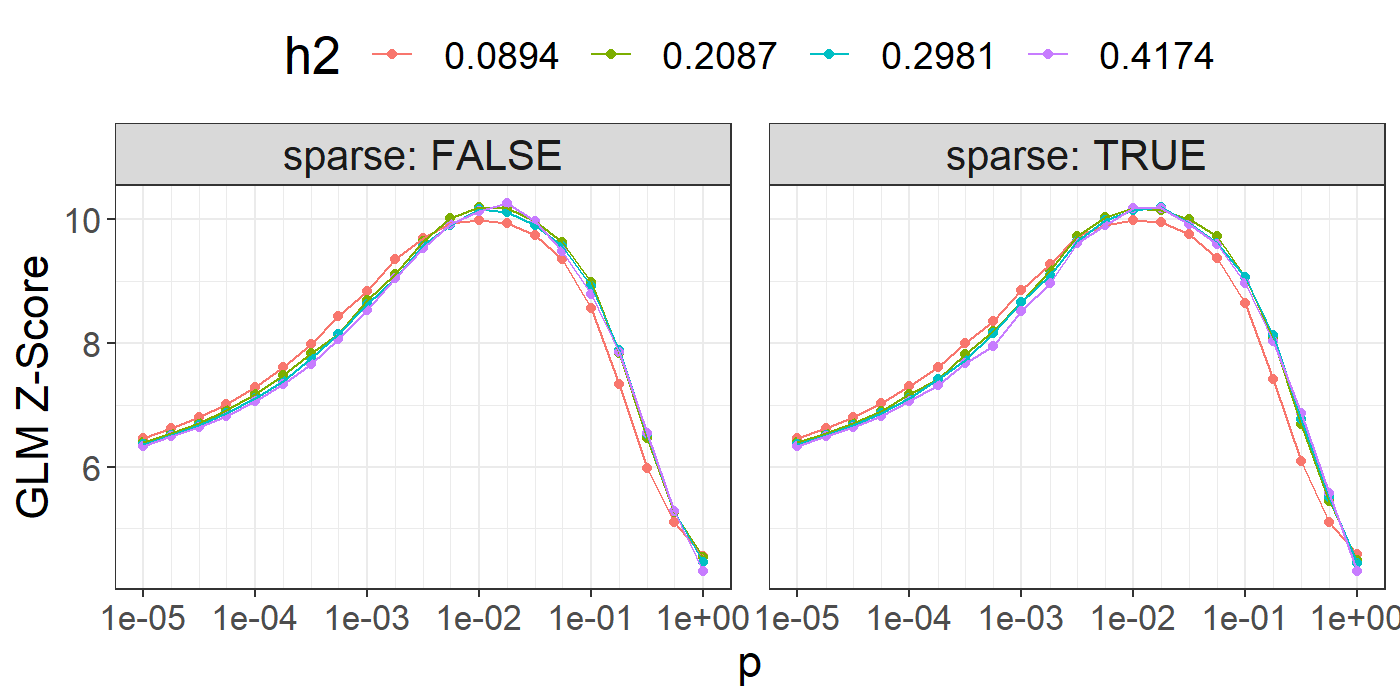
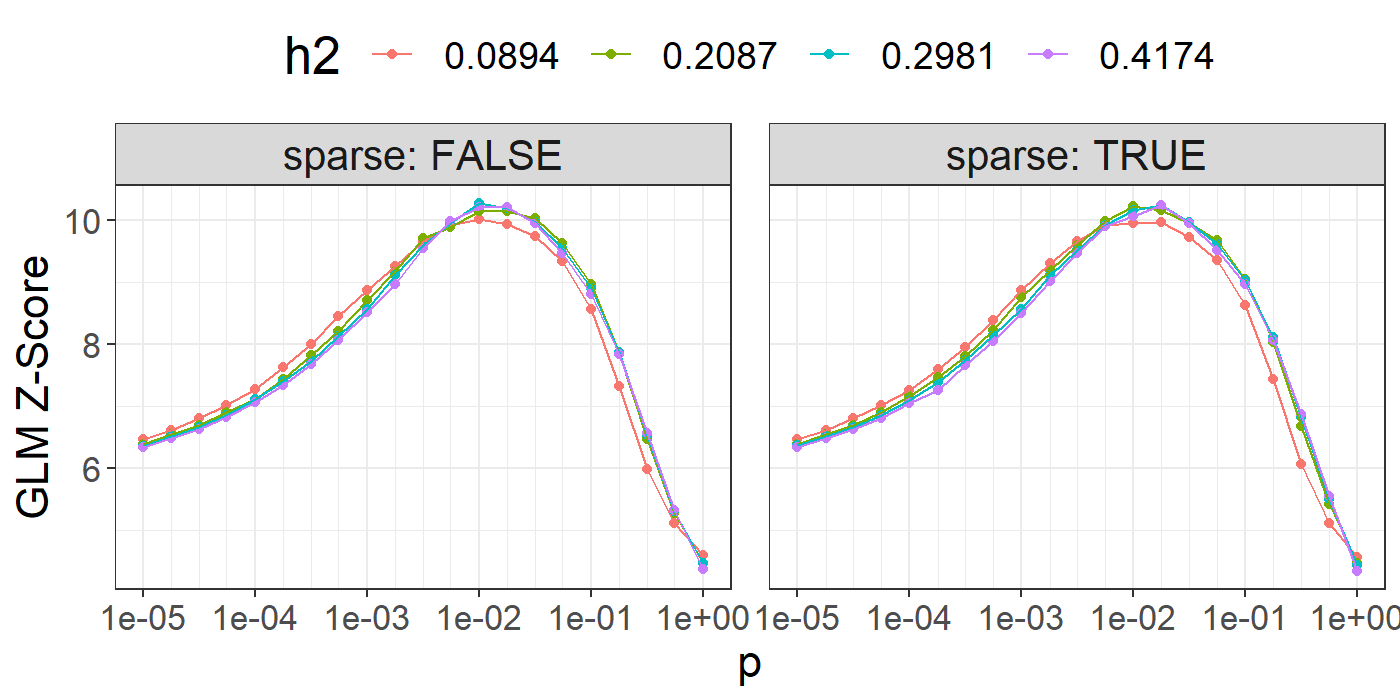
new way of filtering LDpred2-auto

diff --git a/docs/articles/LDpred2.html b/docs/articles/LDpred2.html
@@ -31,7 +31,7 @@
       </button>
       <span class="navbar-brand">
         <a class="navbar-link" href="../index.html">bigsnpr</a>
-        <span class="version label label-default" data-toggle="tooltip" data-placement="bottom" title="Released version">1.9.12</span>
+        <span class="version label label-default" data-toggle="tooltip" data-placement="bottom" title="Released version">1.10.0</span>
       </span>
     </div>
 
@@ -349,11 +349,11 @@
   <span class="fu"><a href="https://dplyr.tidyverse.org/reference/mutate_all.html">mutate_at</a></span><span class="op">(</span><span class="fu"><a href="https://rdrr.io/r/base/c.html">c</a></span><span class="op">(</span><span class="st">"score"</span>, <span class="st">"sparsity"</span><span class="op">)</span>, <span class="va">round</span>, digits <span class="op">=</span> <span class="fl">3</span><span class="op">)</span> <span class="op"><a href="https://magrittr.tidyverse.org/reference/pipe.html">%&gt;%</a></span>
   <span class="fu"><a href="https://dplyr.tidyverse.org/reference/slice.html">slice</a></span><span class="op">(</span><span class="fl">1</span><span class="op">:</span><span class="fl">10</span><span class="op">)</span></code></pre></div>
 <pre><code>##       p     h2 sparse  score sparsity  id
-## 1 0.018 0.4174  FALSE 10.256    0.000  77
-## 2 0.010 0.2087  FALSE 10.203    0.000  34
-## 3 0.018 0.2981   TRUE 10.200    0.745 140
-## 4 0.018 0.4174   TRUE 10.187    0.775 161
-## 5 0.010 0.2087   TRUE 10.177    0.782 118
+## 1 0.010 0.2981  FALSE 10.267    0.000  55
+## 2 0.018 0.2981   TRUE 10.245    0.746 140
+## 3 0.018 0.4174   TRUE 10.234    0.774 161
+## 4 0.010 0.2087   TRUE 10.218    0.784 118
+## 5 0.010 0.4174  FALSE 10.206    0.000  76
 ##  [ reached 'max' / getOption("max.print") -- omitted 5 rows ]</code></pre>
 <p>You can then choose the best model according to your preferred criterion (e.g. max AUC). Here, we use the Z-Score from the (linear or logistic) regression of the phenotype by the PRS since we have found it more robust than using the correlation or the AUC. It also enables adjusting for covariates in this step.</p>
 <p>Also note that we separate both sparse and non-sparse models to show that their predictive performance are similar (in the paper). In practice, if you do not really care about sparsity, you could choose the best LDpred2-grid model among all sparse and non-sparse models.</p>
@@ -369,7 +369,7 @@
 <span class="va">pred</span> <span class="op">&lt;-</span> <span class="fu"><a href="https://privefl.github.io/bigstatsr/reference/big_prodVec.html">big_prodVec</a></span><span class="op">(</span><span class="va">G</span>, <span class="va">best_beta_grid</span>, ind.row <span class="op">=</span> <span class="va">ind.test</span>,
                     ind.col <span class="op">=</span> <span class="va">df_beta</span><span class="op">[[</span><span class="st">"_NUM_ID_"</span><span class="op">]</span><span class="op">]</span><span class="op">)</span>
 <span class="fu"><a href="https://rdrr.io/r/stats/cor.html">cor</a></span><span class="op">(</span><span class="va">pred</span>, <span class="va">y</span><span class="op">[</span><span class="va">ind.test</span><span class="op">]</span><span class="op">)</span></code></pre></div>
-<pre><code>## [1] 0.4942016</code></pre>
+<pre><code>## [1] 0.4948351</code></pre>
 </div>
 <div id="ldpred2-auto-automatic-model" class="section level3">
 <h3 class="hasAnchor">
@@ -378,7 +378,7 @@
 <div class="sourceCode" id="cb44"><pre class="downlit sourceCode r">
 <code class="sourceCode R"><span class="co"># takes less than 2 min with 4 cores</span>
 <span class="va">multi_auto</span> <span class="op">&lt;-</span> <span class="fu"><a href="../reference/snp_ldpred2_inf.html">snp_ldpred2_auto</a></span><span class="op">(</span><span class="va">corr</span>, <span class="va">df_beta</span>, h2_init <span class="op">=</span> <span class="va">h2_est</span>,
-                               vec_p_init <span class="op">=</span> <span class="fu"><a href="../reference/seq_log.html">seq_log</a></span><span class="op">(</span><span class="fl">1e-4</span>, <span class="fl">0.5</span>, length.out <span class="op">=</span> <span class="fl">30</span><span class="op">)</span>,
+                               vec_p_init <span class="op">=</span> <span class="fu"><a href="../reference/seq_log.html">seq_log</a></span><span class="op">(</span><span class="fl">1e-4</span>, <span class="fl">0.2</span>, length.out <span class="op">=</span> <span class="fl">30</span><span class="op">)</span>,
                                allow_jump_sign <span class="op">=</span> <span class="cn">FALSE</span>, shrink_corr <span class="op">=</span> <span class="fl">0.95</span>,
                                ncores <span class="op">=</span> <span class="va">NCORES</span><span class="op">)</span>
 <span class="fu"><a href="https://rdrr.io/r/utils/str.html">str</a></span><span class="op">(</span><span class="va">multi_auto</span>, max.level <span class="op">=</span> <span class="fl">1</span><span class="op">)</span></code></pre></div>
@@ -412,24 +412,26 @@
 ##  $ :List of 10
 ##  $ :List of 10
 ##  $ :List of 10
-##  $ :List of 10</code></pre>
+##  $ :List of 10
+##  - attr(*, "rng")=List of 30
+##  - attr(*, "doRNG_version")= chr "1.7.4"</code></pre>
 <div class="sourceCode" id="cb46"><pre class="downlit sourceCode r">
 <code class="sourceCode R"><span class="fu"><a href="https://rdrr.io/r/utils/str.html">str</a></span><span class="op">(</span><span class="va">multi_auto</span><span class="op">[[</span><span class="fl">1</span><span class="op">]</span><span class="op">]</span>, max.level <span class="op">=</span> <span class="fl">1</span><span class="op">)</span></code></pre></div>
 <pre><code>## List of 10
-##  $ beta_est   : num [1:45337] 6.19e-05 3.07e-04 9.54e-05 -1.12e-04 2.23e-05 ...
-##  $ postp_est  : num [1:45337] 0.0058 0.01332 0.00652 0.00669 0.00457 ...
-##  $ corr_est   : num [1:45337] 6.18e-05 9.42e-05 8.15e-05 2.10e-05 4.19e-06 ...
+##  $ beta_est   : num [1:45337] 5.90e-05 2.92e-04 9.07e-05 -1.06e-04 2.15e-05 ...
+##  $ postp_est  : num [1:45337] 0.0055 0.01264 0.00618 0.00633 0.00433 ...
+##  $ corr_est   : num [1:45337] 1.13e-04 1.24e-04 -2.65e-05 9.64e-06 -3.11e-05 ...
 ##  $ sample_beta: num[1:45337, 0 ]
-##  $ p_est      : num 0.0117
-##  $ h2_est     : num 0.216
-##  $ path_p_est : num [1:700] 0.000917 0.001525 0.00234 0.003439 0.005388 ...
-##  $ path_h2_est: num [1:700] 0.0868 0.1153 0.1356 0.157 0.1583 ...
+##  $ p_est      : num 0.0112
+##  $ h2_est     : num 0.211
+##  $ path_p_est : num [1:700] 0.000781 0.001351 0.002809 0.003616 0.004239 ...
+##  $ path_h2_est: num [1:700] 0.0852 0.1034 0.1476 0.1572 0.168 ...
 ##  $ h2_init    : num 0.298
 ##  $ p_init     : num 1e-04</code></pre>
-<p>You should verify whether the chains “converged”. You can look at the path of the chains, as shown below. In the paper, we propose an automatic way to filter bad chains by comparing the scale of the resulting predictions (see <a href="https://github.com/privefl/paper-ldpred2/blob/master/code/run-ldpred2-gwide.R#L108-L112">this code</a>, reproduced below). You can also filter on h2 and p estimates that diverge from the median of the chains (e.g. as in <a href="https://github.com/privefl/UKBB-PGS/blob/main/code/assess-pred-ldpred2.R#L27-L32">this code</a>).</p>
+<p>You can verify whether the chains “converged” by looking at the path of the chains:</p>
 <div class="sourceCode" id="cb48"><pre class="downlit sourceCode r">
 <code class="sourceCode R"><span class="kw"><a href="https://rdrr.io/r/base/library.html">library</a></span><span class="op">(</span><span class="va"><a href="https://ggplot2.tidyverse.org">ggplot2</a></span><span class="op">)</span>
-<span class="va">auto</span> <span class="op">&lt;-</span> <span class="va">multi_auto</span><span class="op">[[</span><span class="fl">1</span><span class="op">]</span><span class="op">]</span>
+<span class="va">auto</span> <span class="op">&lt;-</span> <span class="va">multi_auto</span><span class="op">[[</span><span class="fl">1</span><span class="op">]</span><span class="op">]</span>  <span class="co"># first chain</span>
 <span class="fu"><a href="https://wilkelab.org/cowplot/reference/plot_grid.html">plot_grid</a></span><span class="op">(</span>
   <span class="fu"><a href="https://ggplot2.tidyverse.org/reference/qplot.html">qplot</a></span><span class="op">(</span>y <span class="op">=</span> <span class="va">auto</span><span class="op">$</span><span class="va">path_p_est</span><span class="op">)</span> <span class="op">+</span>
     <span class="fu"><a href="https://privefl.github.io/bigstatsr/reference/theme_bigstatsr.html">theme_bigstatsr</a></span><span class="op">(</span><span class="op">)</span> <span class="op">+</span>
@@ -443,17 +445,17 @@
   ncol <span class="op">=</span> <span class="fl">1</span>, align <span class="op">=</span> <span class="st">"hv"</span>
 <span class="op">)</span></code></pre></div>
 <p><img src="LDpred2_files/figure-html/unnamed-chunk-21-1.png" width="700" style="display: block; margin: auto;"></p>
+<p>In the LDpred2 paper, we proposed an automatic way of filtering bad chains by comparing the scale of the resulting predictions (see <a href="https://github.com/privefl/paper-ldpred2/blob/master/code/run-ldpred2-gwide.R#L108-L112">this code</a>). We have tested a somewhat equivalent and simpler alternative since, which we recommend here:</p>
 <div class="sourceCode" id="cb49"><pre class="downlit sourceCode r">
-<code class="sourceCode R"><span class="va">beta_auto</span> <span class="op">&lt;-</span> <span class="fu"><a href="https://rdrr.io/r/base/lapply.html">sapply</a></span><span class="op">(</span><span class="va">multi_auto</span>, <span class="kw">function</span><span class="op">(</span><span class="va">auto</span><span class="op">)</span> <span class="va">auto</span><span class="op">$</span><span class="va">beta_est</span><span class="op">)</span>
-<span class="va">pred_auto</span> <span class="op">&lt;-</span> <span class="fu"><a href="https://privefl.github.io/bigstatsr/reference/big_prodMat.html">big_prodMat</a></span><span class="op">(</span><span class="va">G</span>, <span class="va">beta_auto</span>, ind.row <span class="op">=</span> <span class="va">ind.test</span>, ind.col <span class="op">=</span> <span class="va">df_beta</span><span class="op">[[</span><span class="st">"_NUM_ID_"</span><span class="op">]</span><span class="op">]</span><span class="op">)</span></code></pre></div>
+<code class="sourceCode R"><span class="va">range</span> <span class="op">&lt;-</span> <span class="fu"><a href="https://rdrr.io/r/base/lapply.html">sapply</a></span><span class="op">(</span><span class="va">multi_auto</span>, <span class="kw">function</span><span class="op">(</span><span class="va">auto</span><span class="op">)</span> <span class="fu"><a href="https://rdrr.io/r/base/diff.html">diff</a></span><span class="op">(</span><span class="fu"><a href="https://rdrr.io/r/base/range.html">range</a></span><span class="op">(</span><span class="va">auto</span><span class="op">$</span><span class="va">corr_est</span><span class="op">)</span><span class="op">)</span><span class="op">)</span>
+<span class="va">keep</span> <span class="op">&lt;-</span> <span class="op">(</span><span class="va">range</span> <span class="op">&gt;</span> <span class="op">(</span><span class="fl">0.9</span> <span class="op">*</span> <span class="fu"><a href="https://rdrr.io/r/stats/quantile.html">quantile</a></span><span class="op">(</span><span class="va">range</span>, <span class="fl">0.9</span><span class="op">)</span><span class="op">)</span><span class="op">)</span></code></pre></div>
+<p>To get the final effects / predictions (after filtering):</p>
 <div class="sourceCode" id="cb50"><pre class="downlit sourceCode r">
-<code class="sourceCode R"><span class="va">sc</span> <span class="op">&lt;-</span> <span class="fu"><a href="https://rdrr.io/r/base/apply.html">apply</a></span><span class="op">(</span><span class="va">pred_auto</span>, <span class="fl">2</span>, <span class="va">sd</span><span class="op">)</span>
-<span class="va">keep</span> <span class="op">&lt;-</span> <span class="fu"><a href="https://rdrr.io/r/base/MathFun.html">abs</a></span><span class="op">(</span><span class="va">sc</span> <span class="op">-</span> <span class="fu"><a href="https://rdrr.io/r/stats/median.html">median</a></span><span class="op">(</span><span class="va">sc</span><span class="op">)</span><span class="op">)</span> <span class="op">&lt;</span> <span class="fl">3</span> <span class="op">*</span> <span class="fu"><a href="https://rdrr.io/r/stats/mad.html">mad</a></span><span class="op">(</span><span class="va">sc</span><span class="op">)</span>
-<span class="va">final_beta_auto</span> <span class="op">&lt;-</span> <span class="fu"><a href="https://rdrr.io/r/base/colSums.html">rowMeans</a></span><span class="op">(</span><span class="va">beta_auto</span><span class="op">[</span>, <span class="va">keep</span><span class="op">]</span><span class="op">)</span>
-<span class="va">final_pred_auto</span> <span class="op">&lt;-</span> <span class="fu"><a href="https://rdrr.io/r/base/colSums.html">rowMeans</a></span><span class="op">(</span><span class="va">pred_auto</span><span class="op">[</span>, <span class="va">keep</span><span class="op">]</span><span class="op">)</span></code></pre></div>
+<code class="sourceCode R"><span class="va">beta_auto</span> <span class="op">&lt;-</span> <span class="fu"><a href="https://rdrr.io/r/base/colSums.html">rowMeans</a></span><span class="op">(</span><span class="fu"><a href="https://rdrr.io/r/base/lapply.html">sapply</a></span><span class="op">(</span><span class="va">multi_auto</span><span class="op">[</span><span class="va">keep</span><span class="op">]</span>, <span class="kw">function</span><span class="op">(</span><span class="va">auto</span><span class="op">)</span> <span class="va">auto</span><span class="op">$</span><span class="va">beta_est</span><span class="op">)</span><span class="op">)</span>
+<span class="va">pred_auto</span> <span class="op">&lt;-</span> <span class="fu"><a href="https://privefl.github.io/bigstatsr/reference/big_prodVec.html">big_prodVec</a></span><span class="op">(</span><span class="va">G</span>, <span class="va">beta_auto</span>, ind.row <span class="op">=</span> <span class="va">ind.test</span>, ind.col <span class="op">=</span> <span class="va">df_beta</span><span class="op">[[</span><span class="st">"_NUM_ID_"</span><span class="op">]</span><span class="op">]</span><span class="op">)</span></code></pre></div>
 <div class="sourceCode" id="cb51"><pre class="downlit sourceCode r">
-<code class="sourceCode R"><span class="fu"><a href="https://rdrr.io/r/stats/cor.html">cor</a></span><span class="op">(</span><span class="va">final_pred_auto</span>, <span class="va">y</span><span class="op">[</span><span class="va">ind.test</span><span class="op">]</span><span class="op">)</span></code></pre></div>
-<pre><code>## [1] 0.4964354</code></pre>
+<code class="sourceCode R"><span class="fu"><a href="https://rdrr.io/r/stats/cor.html">cor</a></span><span class="op">(</span><span class="va">pred_auto</span>, <span class="va">y</span><span class="op">[</span><span class="va">ind.test</span><span class="op">]</span><span class="op">)</span></code></pre></div>
+<pre><code>## [1] 0.4956935</code></pre>
 </div>
 <div id="lassosum2-grid-of-models" class="section level3">
 <h3 class="hasAnchor">
@@ -498,8 +500,8 @@
 <code class="sourceCode R"><span class="co"># Some cleaning</span>
 <span class="fu"><a href="https://rdrr.io/r/base/rm.html">rm</a></span><span class="op">(</span><span class="va">corr</span><span class="op">)</span>; <span class="fu"><a href="https://rdrr.io/r/base/gc.html">gc</a></span><span class="op">(</span><span class="op">)</span>; <span class="fu"><a href="https://rdrr.io/r/base/files.html">file.remove</a></span><span class="op">(</span><span class="fu"><a href="https://rdrr.io/r/base/paste.html">paste0</a></span><span class="op">(</span><span class="va">tmp</span>, <span class="st">".sbk"</span><span class="op">)</span><span class="op">)</span></code></pre></div>
 <pre><code>##            used  (Mb) gc trigger  (Mb) max used  (Mb)
-## Ncells  3385295 180.8    5900830 315.2  5900830 315.2
-## Vcells 35079315 267.7   57174664 436.3 54322895 414.5</code></pre>
+## Ncells  3396020 181.4    5901124 315.2  5901124 315.2
+## Vcells 33736521 257.4   54161452 413.3 54122057 413.0</code></pre>
 <pre><code>## [1] TRUE</code></pre>
 </div>
 </div>
